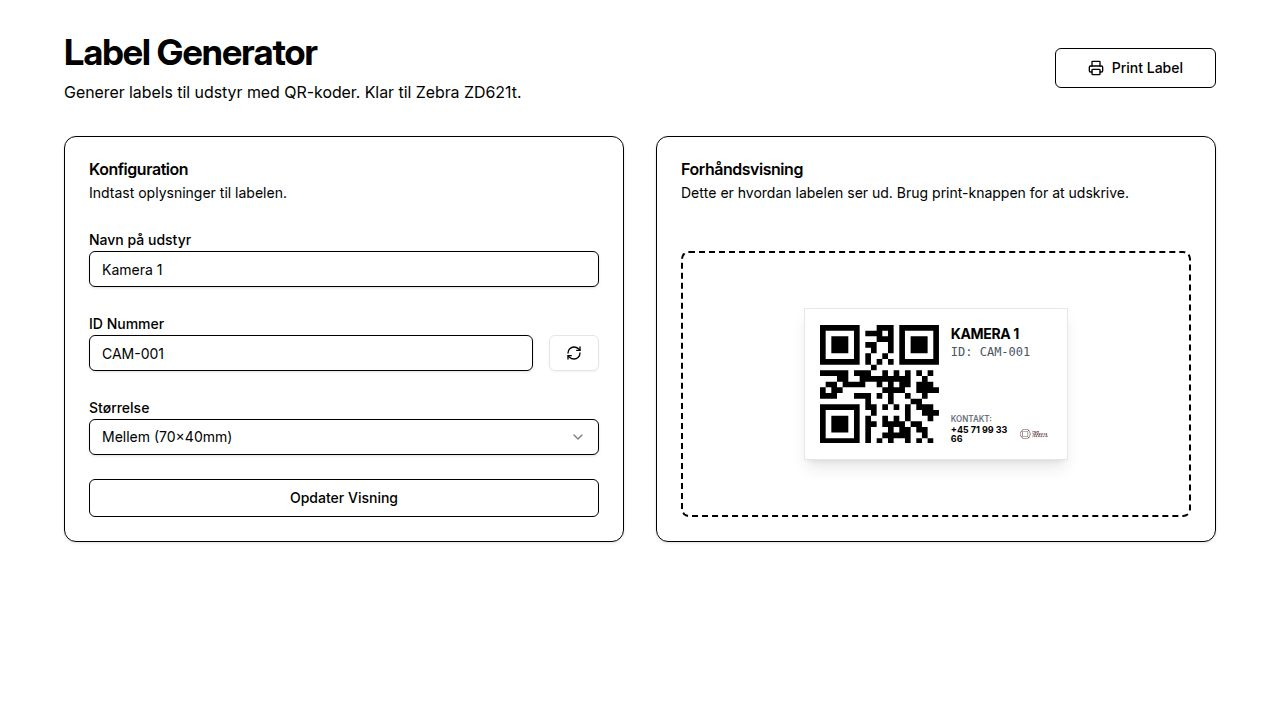
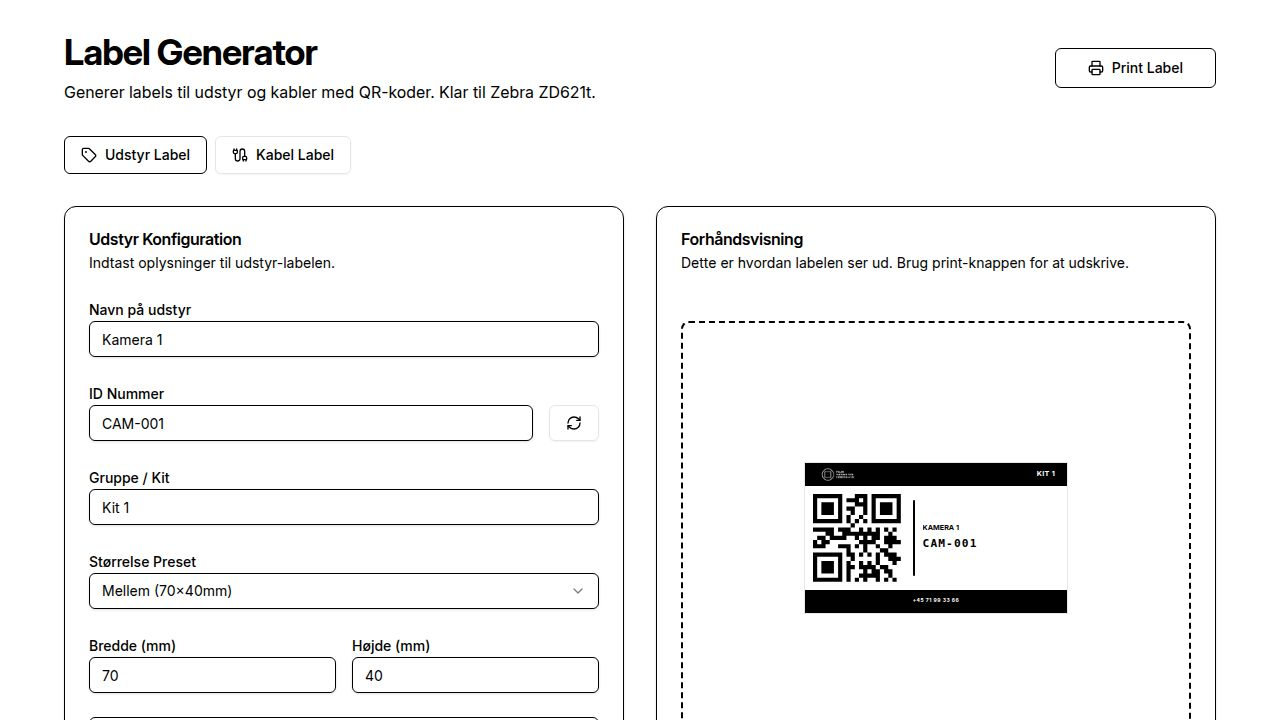
Add options to display QR or barcode on cable labels
Integrate `react-barcode` and update the cable label component to support QR codes, barcodes, or no code. Includes schema changes for `codeType` and form modifications for selection.

Replit-Commit-Author: Agent
Replit-Commit-Session-Id: bee3b31d-45ac-4f89-a601-8fda68c55ae2
Replit-Commit-Checkpoint-Type: full_checkpoint
Replit-Commit-Event-Id: c3287cde-f2d4-4c52-9dc7-b481cf40e5bd
Replit-Commit-Screenshot-Url: https://storage.googleapis.com/screenshot-production-us-central1/df6f6ef9-597f-4ab2-aabd-444b9c30c995/bee3b31d-45ac-4f89-a601-8fda68c55ae2/aFggDzc
Replit-Helium-Checkpoint-Created: true

diff --git a/client/src/pages/label-generator.tsx b/client/src/pages/label-generator.tsx
@@ -1,5 +1,6 @@
 import { useState, useEffect } from "react";
 import QRCode from "react-qr-code";
+import Barcode from "react-barcode";
 import { useForm } from "react-hook-form";
 import { zodResolver } from "@hookform/resolvers/zod";
 import { z } from "zod";
@@ -28,6 +29,7 @@ const cableSchema = z.object({
   name: z.string().min(1, "Navn er påkrævet"),
   id: z.string().min(1, "ID nummer er påkrævet"),
   group: z.string().optional(),
+  codeType: z.enum(["qr", "barcode", "none"]),
   width: z.number().min(30, "Minimum bredde er 30mm").max(100, "Maksimum bredde er 100mm"),
   height: z.number().min(5, "Minimum højde er 5mm").max(20, "Maksimum højde er 20mm"),
   preset: z.string().optional(),
@@ -146,6 +148,8 @@ function CableLabelContent({ data, isPreview = false }: { data: CableFormValues;
   const fontSize = `${Math.max(6, height * 0.55)}px`;
   const smallFontSize = `${Math.max(5, height * 0.35)}px`;
   const logoH = `${Math.max(10, height * 1.8)}px`;
+  const hasCode = data.codeType !== "none";
+  const codeSize = height * 0.85;
 
   return (
     <div
@@ -170,6 +174,29 @@ function CableLabelContent({ data, isPreview = false }: { data: CableFormValues;
           style={{ height: logoH, maxWidth: '100%' }}
         />
       </div>
+
+      {/* QR or Barcode section */}
+      {hasCode && (
+        <div className="flex items-center justify-center flex-shrink-0 bg-white px-1"
+          style={{ height: '100%' }}
+        >
+          {data.codeType === "qr" ? (
+            <QRCode
+              value={data.id}
+              style={{ height: `${codeSize}mm`, width: `${codeSize}mm` }}
+              viewBox="0 0 256 256"
+            />
+          ) : (
+            <Barcode
+              value={data.id}
+              height={Math.max(15, codeSize * 2.5)}
+              width={1}
+              displayValue={false}
+              margin={0}
+            />
+          )}
+        </div>
+      )}
 
       {/* Main content - horizontal strip */}
       <div className="flex-1 flex items-center justify-between px-2 min-w-0 overflow-hidden">
@@ -223,6 +250,7 @@ export default function LabelGenerator() {
     name: "SDI Kabel",
     id: "CBL-001",
     group: "Kit 1",
+    codeType: "qr",
     width: 70,
     height: 10,
     preset: "medium",
@@ -491,6 +519,28 @@ export default function LabelGenerator() {
                           <FormControl>
                             <Input placeholder="F.eks. Kit 1, Lyd Kit 2" {...field} data-testid="input-cable-group" />
                           </FormControl>
+                          <FormMessage />
+                        </FormItem>
+                      )}
+                    />
+                    <FormField
+                      control={cableForm.control}
+                      name="codeType"
+                      render={({ field }) => (
+                        <FormItem>
+                          <FormLabel>Kode Type</FormLabel>
+                          <Select onValueChange={field.onChange} defaultValue={field.value}>
+                            <FormControl>
+                              <SelectTrigger data-testid="select-cable-codetype">
+                                <SelectValue placeholder="Vælg kode type" />
+                              </SelectTrigger>
+                            </FormControl>
+                            <SelectContent>
+                              <SelectItem value="qr">QR Kode</SelectItem>
+                              <SelectItem value="barcode">Stregkode</SelectItem>
+                              <SelectItem value="none">Ingen kode</SelectItem>
+                            </SelectContent>
+                          </Select>
                           <FormMessage />
                         </FormItem>
                       )}
